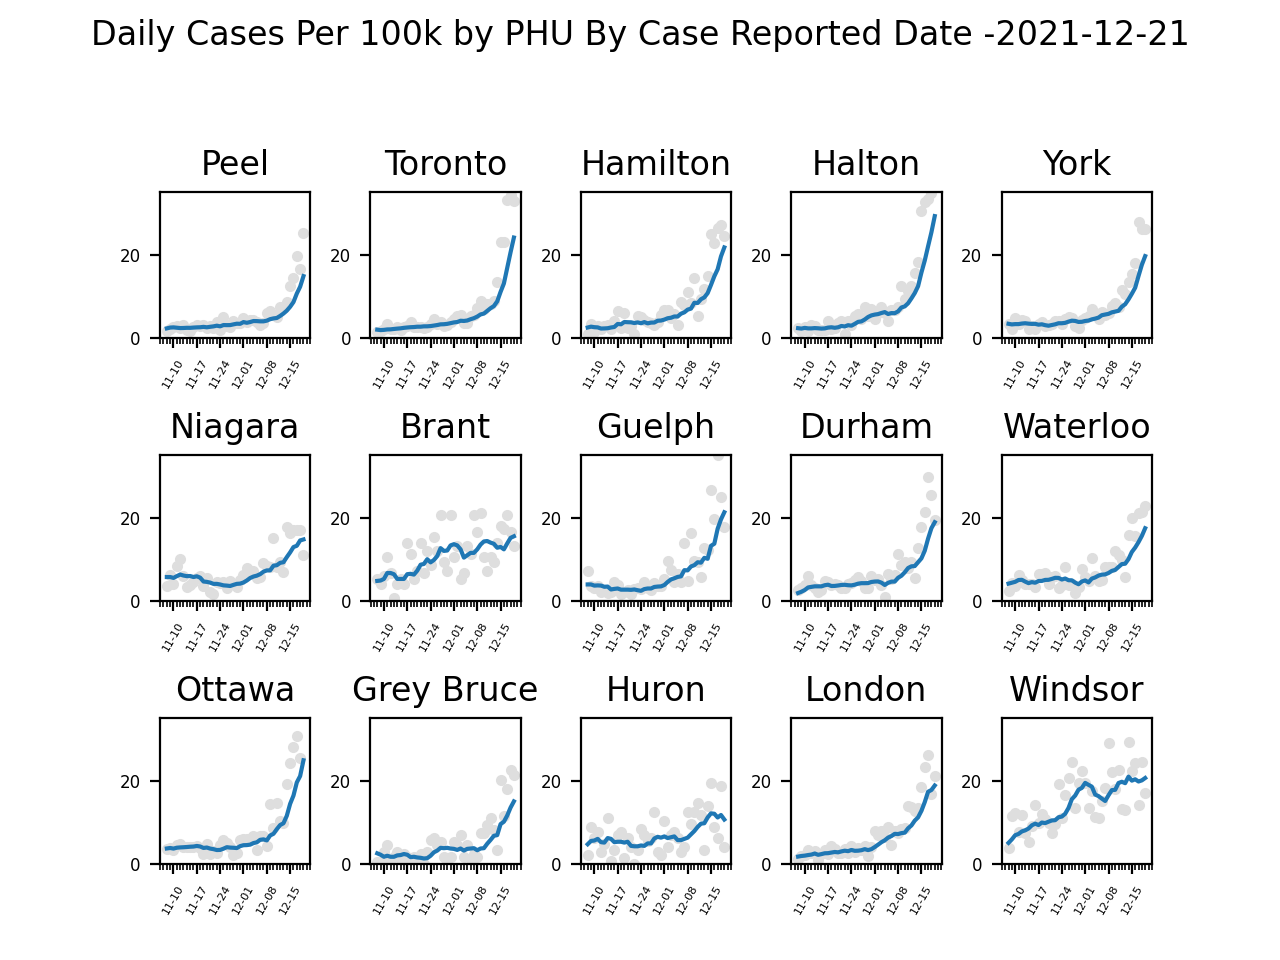
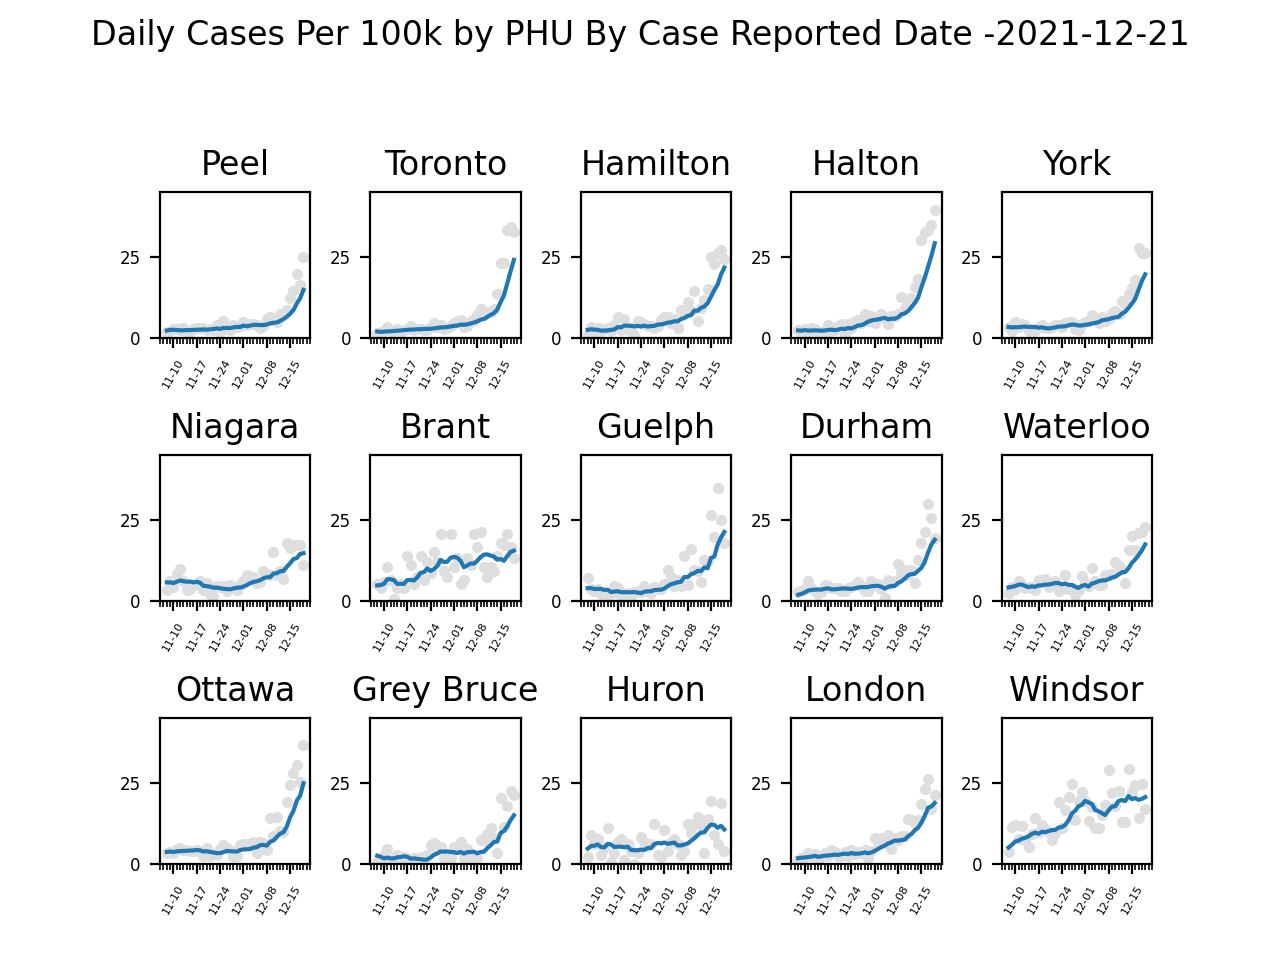
automated

diff --git a/Scripts/Covid_AnalysisPlot.py b/Scripts/Covid_AnalysisPlot.py
@@ -276,12 +276,12 @@ PHU_Scale = {"Peel Public Health":1,"Toronto Public Health":1,
 "Middlesex-London Health Unit":1,"Wellington-Dufferin-Guelph Public Health":1,
 "Eastern Ontario Health Unit":1,"Haldimand-Norfolk Health Unit":1,
 "Simcoe Muskoka District Health Unit":1,"Peterborough Public Health":1,
-"Timiskaming Health Unit":1.5,"Haliburton, Kawartha, Pine Ridge District Health Unit":1,
+"Timiskaming Health Unit":1,"Haliburton, Kawartha, Pine Ridge District Health Unit":1,
 "Leeds, Grenville and Lanark District Health Unit":1,"Grey Bruce Health Unit":1,
 "Renfrew County and District Health Unit":1,"Hastings and Prince Edward Counties Health Unit":1,
 "Thunder Bay District Health Unit":1,"Kingston, Frontenac and Lennox & Addington Public Health":2.5,
 "Northwestern Health Unit":1,"North Bay Parry Sound District Health Unit":1,
-"Algoma Public Health Unit":1.5,"Sudbury & District Health Unit":1,"Porcupine Health Unit":1}
+"Algoma Public Health Unit":1,"Sudbury & District Health Unit":1,"Porcupine Health Unit":1}
 
 
 PHU_PositionC1 = {"Peel Public Health":1,"Toronto Public Health":2,
@@ -414,7 +414,7 @@ print (chartX[-14:])
 spRow = 3
 spCol = 5
 yLimMin = 0
-yLimMax = 35
+yLimMax = 45
 ytickSize = 6
 yTickColor = 'black'
 
